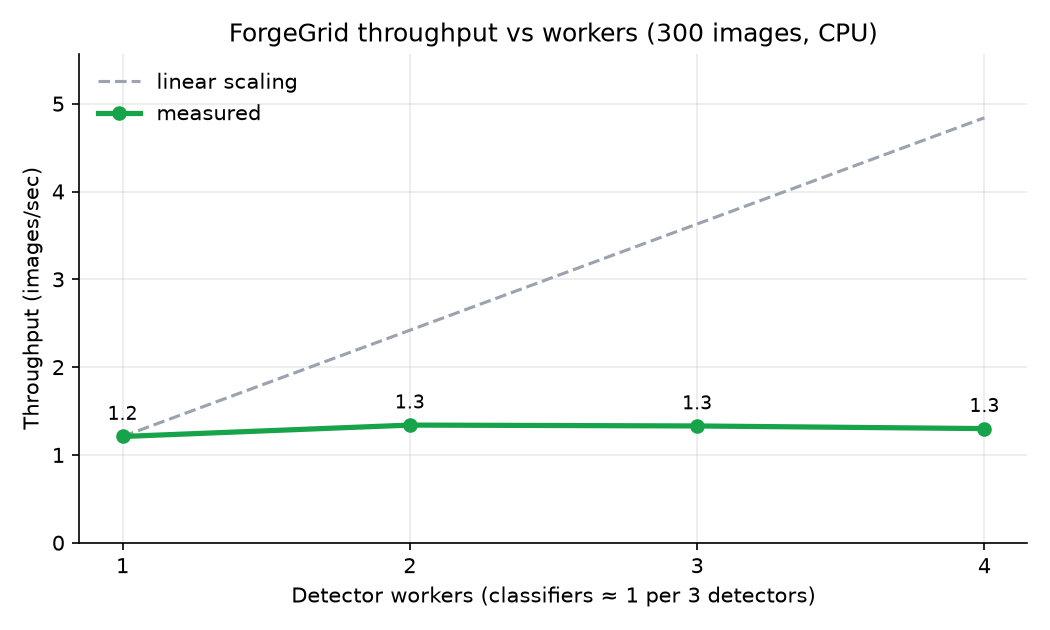
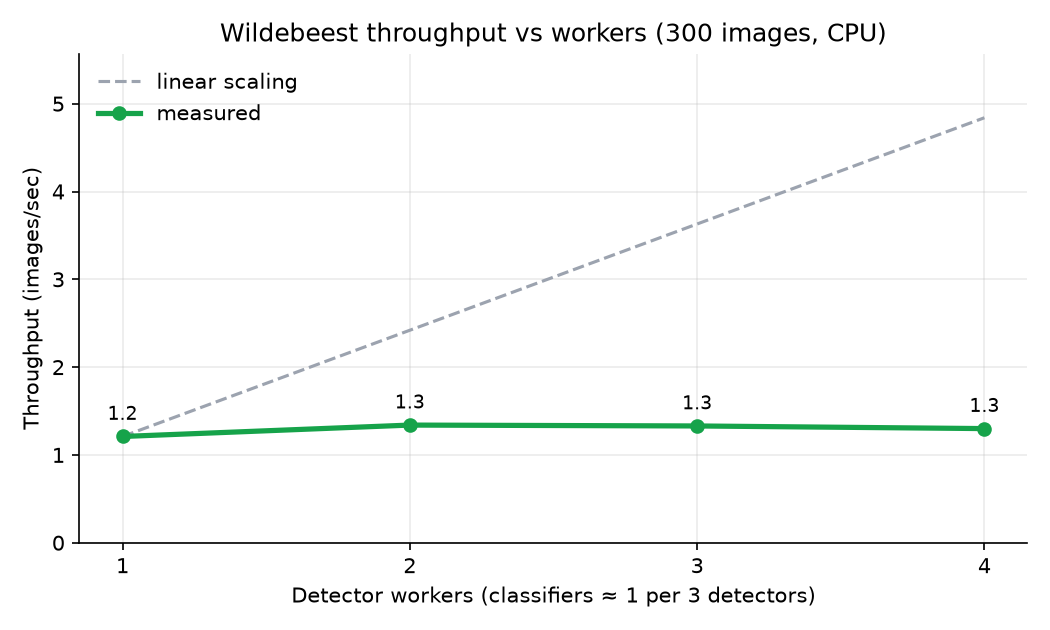
Rename ForgeGrid to Wildebeest
The herd keeps moving when one animal falls. Renamed the worker package,
database, bucket, Redis keys, images, dashboard and docs; docs/PRD.md keeps
the original name as a copy of the source spec.

Changed region(s): [[0.2133, 0.0302, 0.8533, 0.0905]]

diff --git a/coordinator/src/config.ts b/coordinator/src/config.ts
@@ -17,14 +17,14 @@ function str(env: NodeJS.ProcessEnv, name: string, fallback: string): string {
 export function loadConfig(env: NodeJS.ProcessEnv = process.env) {
   return {
     port: num(env, "PORT", 3000),
-    databaseUrl: str(env, "DATABASE_URL", "postgres://forgegrid:forgegrid@localhost:5432/forgegrid"),
+    databaseUrl: str(env, "DATABASE_URL", "postgres://wildebeest:wildebeest@localhost:5432/wildebeest"),
     redisUrl: str(env, "REDIS_URL", "redis://localhost:6379"),
 
     s3Endpoint: str(env, "S3_ENDPOINT", "http://localhost:9000"),
     s3PublicEndpoint: str(env, "S3_PUBLIC_ENDPOINT", str(env, "S3_ENDPOINT", "http://localhost:9000")),
     s3AccessKey: str(env, "S3_ACCESS_KEY", "minioadmin"),
     s3SecretKey: str(env, "S3_SECRET_KEY", "minioadmin"),
-    s3Bucket: str(env, "S3_BUCKET", "forgegrid"),
+    s3Bucket: str(env, "S3_BUCKET", "wildebeest"),
     sampleDir: str(env, "SAMPLE_DIR", "/data/sample"),
 
     detectorModelVersion: str(env, "DETECTOR_MODEL_VERSION", "speciesnet-md_v5a"),

diff --git a/coordinator/test/env.ts b/coordinator/test/env.ts
@@ -1,10 +1,10 @@
 // Runs before each test file's imports, so src/config.ts picks these up.
 // Defaults match the host ports docker-compose publishes; override with TEST_* env vars.
-process.env.DATABASE_URL = process.env.TEST_DATABASE_URL ?? "postgres://forgegrid:forgegrid@localhost:15432/forgegrid_test";
+process.env.DATABASE_URL = process.env.TEST_DATABASE_URL ?? "postgres://wildebeest:wildebeest@localhost:15432/wildebeest_test";
 process.env.REDIS_URL = process.env.TEST_REDIS_URL ?? "redis://localhost:16379/15";
 process.env.S3_ENDPOINT = process.env.TEST_S3_ENDPOINT ?? "http://localhost:9000";
 process.env.S3_PUBLIC_ENDPOINT = process.env.S3_ENDPOINT;
-process.env.S3_BUCKET = "forgegrid-test";
+process.env.S3_BUCKET = "wildebeest-test";
 process.env.DETECTOR_MODEL_VERSION = "test-detector-v1";
 process.env.CLASSIFIER_MODEL_VERSION = "test-classifier-v1";
 process.env.LEASE_MS = "3000";

diff --git a/dashboard/src/components/Header.tsx b/dashboard/src/components/Header.tsx
@@ -1,6 +1,6 @@
 import { useRef, useState } from 'react';
 import { uploadPhotos } from '../lib/api';
-import type { Connection } from '../hooks/useForgeGrid';
+import type { Connection } from '../hooks/useWildebeest';
 import { Logo } from './Logo';
 
 const SIZES = [500, 1000, 2000];
@@ -50,7 +50,7 @@ export function Header({ connection, lastSampleSize, onStartSample, onUploaded, 
         <Logo />
         <div className="min-w-0">
           <div className="flex items-baseline gap-3">
-            <h1 className="text-[26px] font-semibold leading-none tracking-tight">ForgeGrid</h1>
+            <h1 className="text-[26px] font-semibold leading-none tracking-tight">Wildebeest</h1>
             <ConnectionPill connection={connection} />
           </div>
           <p className="mt-1.5 max-w-[600px] text-[13px] leading-snug text-ink-400">

diff --git a/coordinator/test/globalSetup.ts b/coordinator/test/globalSetup.ts
@@ -1,9 +1,9 @@
 import pg from "pg";
 
-// Recreates the forgegrid_test database once per `npm test` run. Migrations are applied by
+// Recreates the wildebeest_test database once per `npm test` run. Migrations are applied by
 // the test helpers (through the real migrate()), so they are exercised too.
 export default async function setup() {
-  const url = new URL(process.env.TEST_DATABASE_URL ?? "postgres://forgegrid:forgegrid@localhost:15432/forgegrid_test");
+  const url = new URL(process.env.TEST_DATABASE_URL ?? "postgres://wildebeest:wildebeest@localhost:15432/wildebeest_test");
   const dbName = url.pathname.slice(1);
   const admin = new URL(url);
   admin.pathname = "/postgres";

diff --git a/dashboard/src/App.tsx b/dashboard/src/App.tsx
@@ -4,10 +4,10 @@ import { Header } from './components/Header';
 import { JobPanel } from './components/JobPanel';
 import { SpeciesLeaderboard } from './components/SpeciesLeaderboard';
 import { WorkerGrid } from './components/WorkerGrid';
-import { useForgeGrid } from './hooks/useForgeGrid';
+import { useWildebeest } from './hooks/useWildebeest';
 
 export default function App() {
-  const live = useForgeGrid();
+  const live = useWildebeest();
   const { job } = live;
   // Prefer the explicit field; older coordinators only encode it in the name ("sample-1000").
   const lastSampleSize = job ? (job.sampleSize ?? (Number(job.name.match(/^sample-(\d+)$/)?.[1]) || null)) : null;

diff --git a/scripts/benchmark.ts b/scripts/benchmark.ts
@@ -24,7 +24,7 @@ const DETECTORS = (process.env.BENCH_DETECTORS ?? "1,2,3,4").split(",").map(Numb
 const RECOVERY_DETECTORS = Number(process.env.BENCH_RECOVERY_DETECTORS ?? 4);
 const RECOVERY_IMAGES = Number(process.env.BENCH_RECOVERY_IMAGES ?? 300);
 const pool = new pg.Pool({
-  connectionString: process.env.DATABASE_URL ?? "postgres://forgegrid:forgegrid@localhost:15432/forgegrid",
+  connectionString: process.env.DATABASE_URL ?? "postgres://wildebeest:wildebeest@localhost:15432/wildebeest",
 });
 
 const sleep = (ms: number) => new Promise((r) => setTimeout(r, ms));

diff --git a/tests/integration/helpers.ts b/tests/integration/helpers.ts
@@ -9,7 +9,7 @@ import pg from "pg";
 export const REPO_ROOT = path.resolve(path.dirname(fileURLToPath(import.meta.url)), "../..");
 export const API = process.env.COORDINATOR_URL ?? "http://localhost:3000";
 export const DATABASE_URL =
-  process.env.DATABASE_URL ?? "postgres://forgegrid:forgegrid@localhost:15432/forgegrid";
+  process.env.DATABASE_URL ?? "postgres://wildebeest:wildebeest@localhost:15432/wildebeest";
 export const REDIS_URL = process.env.REDIS_URL ?? "redis://localhost:16379";
 
 export const sleep = (ms: number) => new Promise((r) => setTimeout(r, ms));

diff --git a/coordinator/src/redis.ts b/coordinator/src/redis.ts
@@ -7,9 +7,9 @@ export const keys = {
   queue: (stage: string) => `queue:${stage}`,
   processing: (workerId: string) => `processing:${workerId}`,
   alive: (workerId: string) => `worker:${workerId}:alive`,
-  throttled: "forgegrid:throttled",
+  throttled: "wildebeest:throttled",
   // Set whenever the queues are (re)built from Postgres. If it disappears, Redis lost its data.
-  queuesBuilt: "forgegrid:queues-built",
+  queuesBuilt: "wildebeest:queues-built",
 };
 
 let client: Redis | null = null;

diff --git a/dashboard/src/hooks/useWildebeest.ts b/dashboard/src/hooks/useWildebeest.ts
@@ -18,7 +18,7 @@ export type LiveJob = JobSummary & { receivedAt: number };
  * All live state for the dashboard. Primary source is the /api/events WebSocket;
  * REST polling every 2 s is the fallback so the page keeps working if the socket drops.
  */
-export function useForgeGrid() {
+export function useWildebeest() {
   const [job, setJob] = useState<LiveJob | null>(null);
   const [workers, setWorkers] = useState<Worker[]>([]);
   const [events, setEvents] = useState<TaskEvent[]>([]);

diff --git a/dashboard/src/components/JobPanel.tsx b/dashboard/src/components/JobPanel.tsx
@@ -1,5 +1,5 @@
 import type { ReactNode } from 'react';
-import type { LiveJob } from '../hooks/useForgeGrid';
+import type { LiveJob } from '../hooks/useWildebeest';
 import { useNow } from '../hooks/useNow';
 import { useTween } from '../hooks/useTween';
 import { fmtDuration, fmtInt, fmtPct, fmtReviewTime } from '../lib/format';

diff --git a/dashboard/index.html b/dashboard/index.html
@@ -5,7 +5,7 @@
     <meta name="viewport" content="width=device-width, initial-scale=1.0" />
     <meta name="color-scheme" content="dark" />
     <link rel="icon" type="image/svg+xml" href="/favicon.svg" />
-    <title>ForgeGrid</title>
+    <title>Wildebeest</title>
   </head>
   <body>
     <div id="root"></div>

diff --git a/scripts/baseline.py b/scripts/baseline.py
@@ -4,7 +4,7 @@ Runs the same two-stage pipeline the distributed workers run, in one process:
   1. MegaDetector on every image;
   2. if an animal box >= ANIMAL_CONF_THRESHOLD, SpeciesNet classifier on the top
      animal crop + the package's ensemble/geofence (country TZA).
-It reuses the worker's model wrappers (worker/forgegrid_worker), so the numbers
+It reuses the worker's model wrappers (worker/wildebeest_worker), so the numbers
 describe exactly the code that runs in the containers.
 
 Writes benchmarks/baseline_predictions.csv (resumable: rows already there are
@@ -28,8 +28,8 @@ ROOT = Path(__file__).resolve().parent.parent
 sys.path.insert(0, str(ROOT / "worker"))
 warnings.filterwarnings("ignore")
 
-from forgegrid_worker.labels import final_category, top_animal  # noqa: E402
-from forgegrid_worker.storage import open_rgb  # noqa: E402
+from wildebeest_worker.labels import final_category, top_animal  # noqa: E402
+from wildebeest_worker.storage import open_rgb  # noqa: E402
 
 SAMPLE_DIR = ROOT / "data" / "sample"
 PRED_CSV = ROOT / "benchmarks" / "baseline_predictions.csv"
@@ -57,8 +57,8 @@ def run(rows: list[dict]) -> float:
     """Run the models over rows not yet in PRED_CSV. Returns model load seconds."""
     import torch
 
-    from forgegrid_worker.classifier import SpeciesNetClassifierModel
-    from forgegrid_worker.detector import SpeciesNetDetectorModel
+    from wildebeest_worker.classifier import SpeciesNetClassifierModel
+    from wildebeest_worker.detector import SpeciesNetDetectorModel
 
     done = set()
     if PRED_CSV.exists():
@@ -216,7 +216,7 @@ def report(rows: list[dict], load_s: float, subset_note: str) -> str:
         "",
         "Ground truth is the Snapshot Serengeti sequence label (`common_name` in `data/sample/labels.csv`:",
         "`gazellethomsons`/`gazellegrants` → gazelle, `lionfemale`/`lionmale` → lion, `hyenaspotted`/`hyenastriped` → hyena).",
-        "SpeciesNet predictions go through `forgegrid_worker.labels.common_name()`, which maps the taxonomy",
+        "SpeciesNet predictions go through `wildebeest_worker.labels.common_name()`, which maps the taxonomy",
         "string by genus/family: any zebra → zebra, *Connochaetes* → wildebeest, *Panthera leo* → lion,",
         "Elephantidae → elephant, Giraffidae → giraffe, *Eudorcas*/*Nanger*/*Gazella* → gazelle, *Syncerus* → buffalo,",
         "*Crocuta*/*Hyaena*/*Parahyaena* (or the Hyaenidae roll-up) → hyena, *Phacochoerus* → warthog, *Aepyceros* → impala.",
